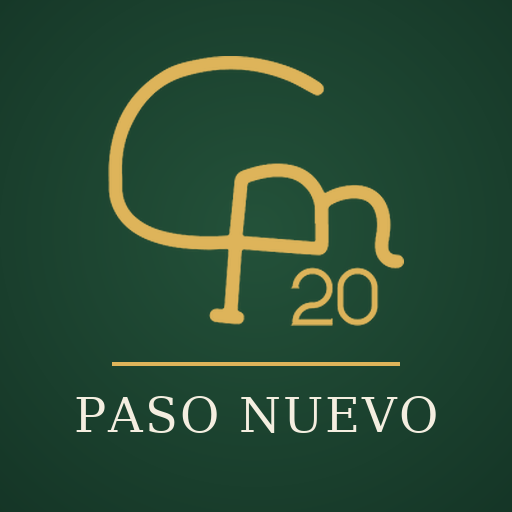
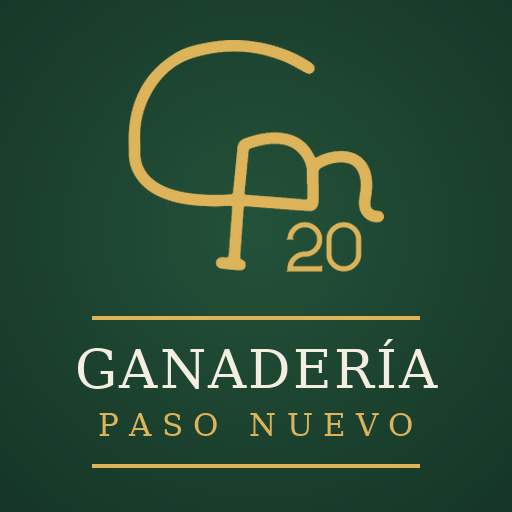
Ícono y nombre: Ganadería Paso Nuevo
Claude-Session: https://claude.ai/code/session_012H2dDCmRpRXrYkshWNF9in

Changed region(s): [[0.1562, 0.0625, 0.875, 0.875], [0.1875, 0.9062, 0.8125, 0.9375]]

diff --git a/index.html b/index.html
@@ -1,4 +1,4 @@
-<!doctype html><html lang="es"><head><meta charset="utf-8"><meta name="viewport" content="width=device-width,initial-scale=1,viewport-fit=cover"><meta name="apple-mobile-web-app-capable" content="yes"><meta name="theme-color" content="#1F3D32"><link rel="manifest" href="manifest.json"><link rel="apple-touch-icon" href="apple-touch-icon.png"><meta name="apple-mobile-web-app-title" content="Paso Nuevo"><meta name="apple-mobile-web-app-status-bar-style" content="default"><meta name="mobile-web-app-capable" content="yes"><title>Ganadería Paso Nuevo</title></head><body style="margin:0">
+<!doctype html><html lang="es"><head><meta charset="utf-8"><meta name="viewport" content="width=device-width,initial-scale=1,viewport-fit=cover"><meta name="apple-mobile-web-app-capable" content="yes"><meta name="theme-color" content="#1F3D32"><link rel="manifest" href="manifest.json"><link rel="apple-touch-icon" href="apple-touch-icon.png"><meta name="apple-mobile-web-app-title" content="Ganadería Paso Nuevo"><meta name="apple-mobile-web-app-status-bar-style" content="default"><meta name="mobile-web-app-capable" content="yes"><title>Ganadería Paso Nuevo</title></head><body style="margin:0">
 <meta name="claude:viewport-fit-sides" content="cover">
 
 <style>

diff --git a/sw.js b/sw.js
@@ -1,6 +1,6 @@
 // Guarda la app completa en el teléfono para que abra sin internet.
 // Al actualizar los datos, cambiar VERSION para que el teléfono baje la copia nueva.
-const VERSION = 'rebano-2026-10-24-logo2';
+const VERSION = 'rebano-2026-10-24-logo3';
 const FILES = ['./', './index.html', './manifest.json', './apple-touch-icon.png', './icon-192.png', './icon-512.png'];
 
 self.addEventListener('install', e => {
